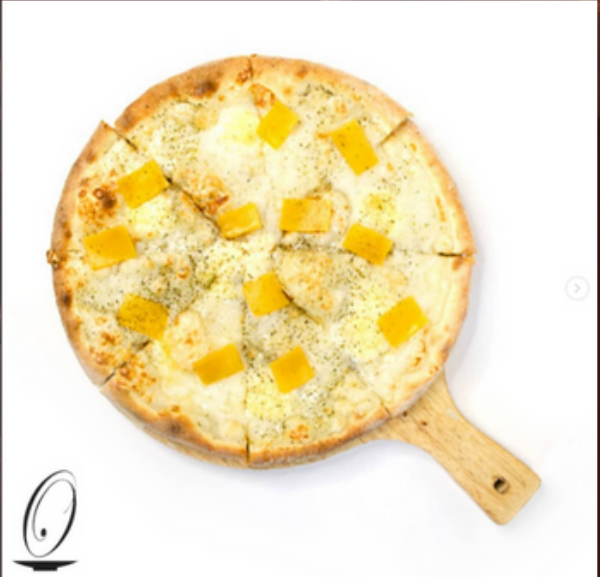
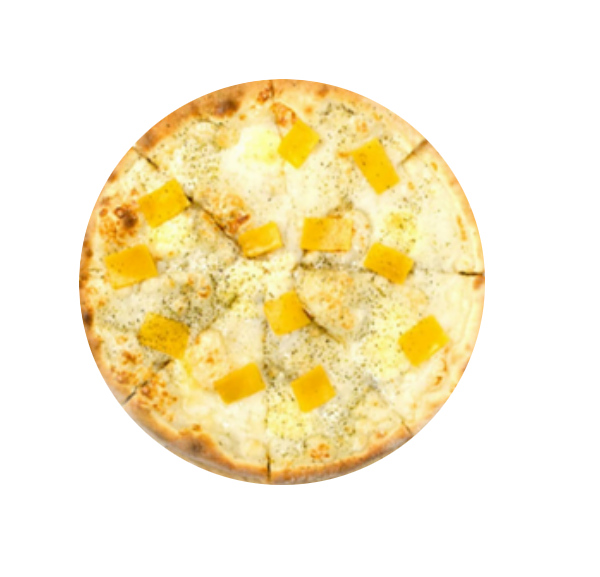
changed images background

diff --git a/css/oxford.css b/css/oxford.css
@@ -122,8 +122,7 @@ nav.navbar {
 }
 
 .menu-img {
-  width: 50%;
-  border-radius: 100%;
+  width: 60%;
 }
 
 .card-title {
